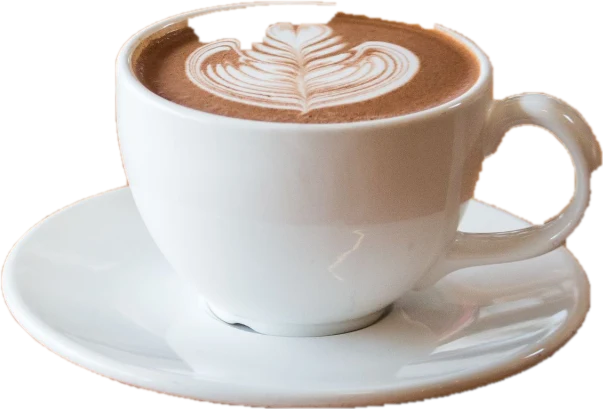
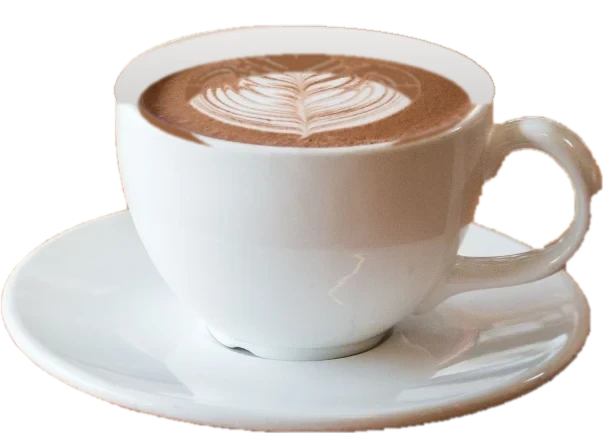
Repair the coffee cup rim and seat it on a window ledge

diff --git a/frontend/src/index.css b/frontend/src/index.css
@@ -212,7 +212,11 @@ body::after {
 /* gate scene */
 .gate-jet { position: absolute; left: 0; top: 0; width: 26%; opacity: 0; }
 .landing-light { position: absolute; width: 14px; height: 14px; margin: -7px 0 0 -7px; border-radius: 9999px; background: radial-gradient(circle, #fffbe8 0 25%, rgba(255,246,214,.5) 45%, rgba(255,246,214,0) 70%); }
-.coffee { position: absolute; right: -2%; bottom: -4%; width: clamp(150px, 19vw, 300px); filter: drop-shadow(0 22px 26px rgba(0,0,0,.35)); }
+.ledge { position: absolute; inset: auto 0 0 0; height: clamp(46px, 8%, 90px);
+  background: linear-gradient(to bottom, #d9d3c8 0, #b9b0a2 3px, #8f8577 40%, #6d6457); box-shadow: 0 -10px 30px rgba(0,0,0,.22); }
+.dark .ledge { background: linear-gradient(to bottom, #3a3f4a 0, #262a33 3px, #171a21 45%, #0d0f14); box-shadow: 0 -10px 30px rgba(0,0,0,.5); }
+.coffee { position: absolute; right: 4%; bottom: clamp(18px, 3.2%, 40px); width: clamp(130px, 15vw, 240px); filter: blur(.4px) drop-shadow(0 6px 10px rgba(0,0,0,.28)); }
+.cup-shadow { position: absolute; left: 4%; right: 4%; bottom: -4%; height: 16%; border-radius: 50%; background: radial-gradient(closest-side, rgba(0,0,0,.45), rgba(0,0,0,0)); }
 .steam { position: absolute; left: 34%; top: -38%; width: 16%; height: 60%; border-radius: 50%; opacity: 0;
   background: radial-gradient(ellipse at 50% 70%, rgba(255,255,255,.55), rgba(255,255,255,0) 70%); filter: blur(7px); }
 .steam--2 { left: 46%; } .steam--3 { left: 40%; width: 12%; }

diff --git a/frontend/src/components/Scenes.tsx b/frontend/src/components/Scenes.tsx
@@ -58,10 +58,12 @@ export function GateScene() {
         </div>
         <div className="glass-sheen absolute inset-0" />
       </div>
-      {/* a coffee on the window ledge */}
+      {/* the counter ledge by the window, with a coffee on it */}
+      <div className="ledge" />
       <div className="coffee">
         <span className="steam" /><span className="steam steam--2" /><span className="steam steam--3" />
-        <img src="/assets/scene/coffee.webp" alt="" className="relative block w-full dark:brightness-[.55] dark:saturate-[.8]" />
+        <span className="cup-shadow" />
+        <img src="/assets/scene/coffee.webp" alt="" className="relative block w-full dark:brightness-[.62] dark:saturate-[.85]" />
       </div>
     </div>
   );
